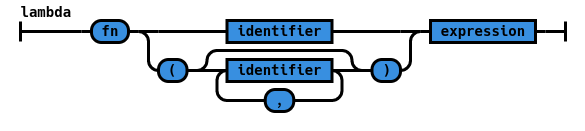
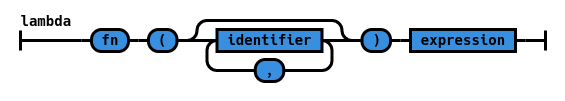
fix grammar for lambda abstractions

Changed region(s): [[0.0301, 0.0297, 0.9929, 0.8911]]

diff --git a/railroad-diagrams.py b/railroad-diagrams.py
@@ -877,17 +877,13 @@ def zilch_character():
 def zilch_lambda():
 	inner = Sequence(
 		Terminal('fn'),
-		Choice(
-			0,
-			NonTerminal('identifier'),
-			Sequence(
-				Terminal('('),
-				ZeroOrMore(
-					NonTerminal('identifier'),
-					Terminal(',')
-				),
-				Terminal(')')
-			)
+		Sequence(
+			Terminal('('),
+			ZeroOrMore(
+				NonTerminal('identifier'),
+				Terminal(',')
+			),
+			Terminal(')')
 		),
 		NonTerminal('expression')
 	)
@@ -1025,4 +1021,4 @@ def zilch_basicexpr():
 
 	return mk_diagram2('expression-atom', inner)
 
-zilch_basicexpr().writeSvg(sys.stdout.write)
+zilch_lambda().writeSvg(sys.stdout.write)
